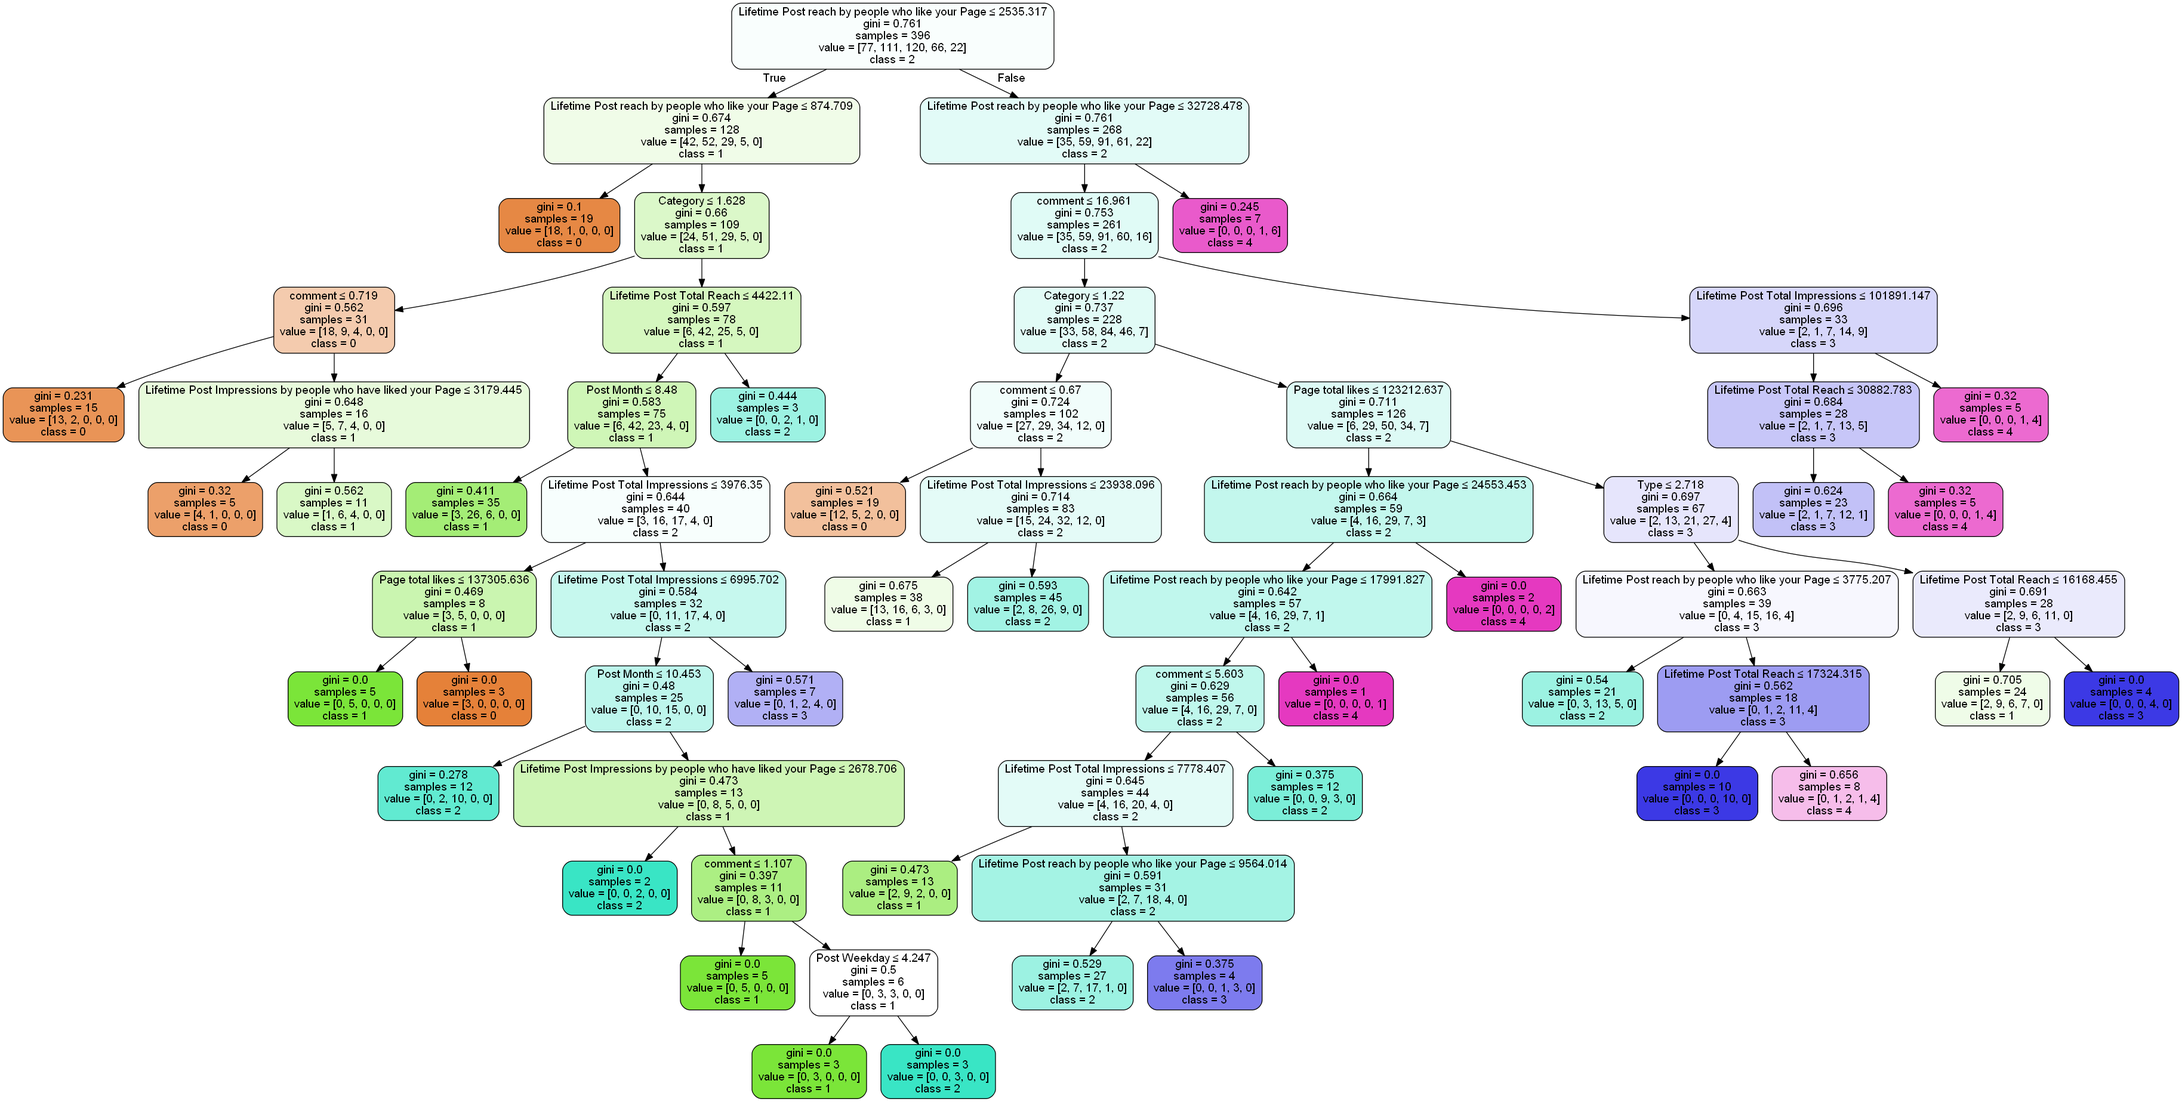
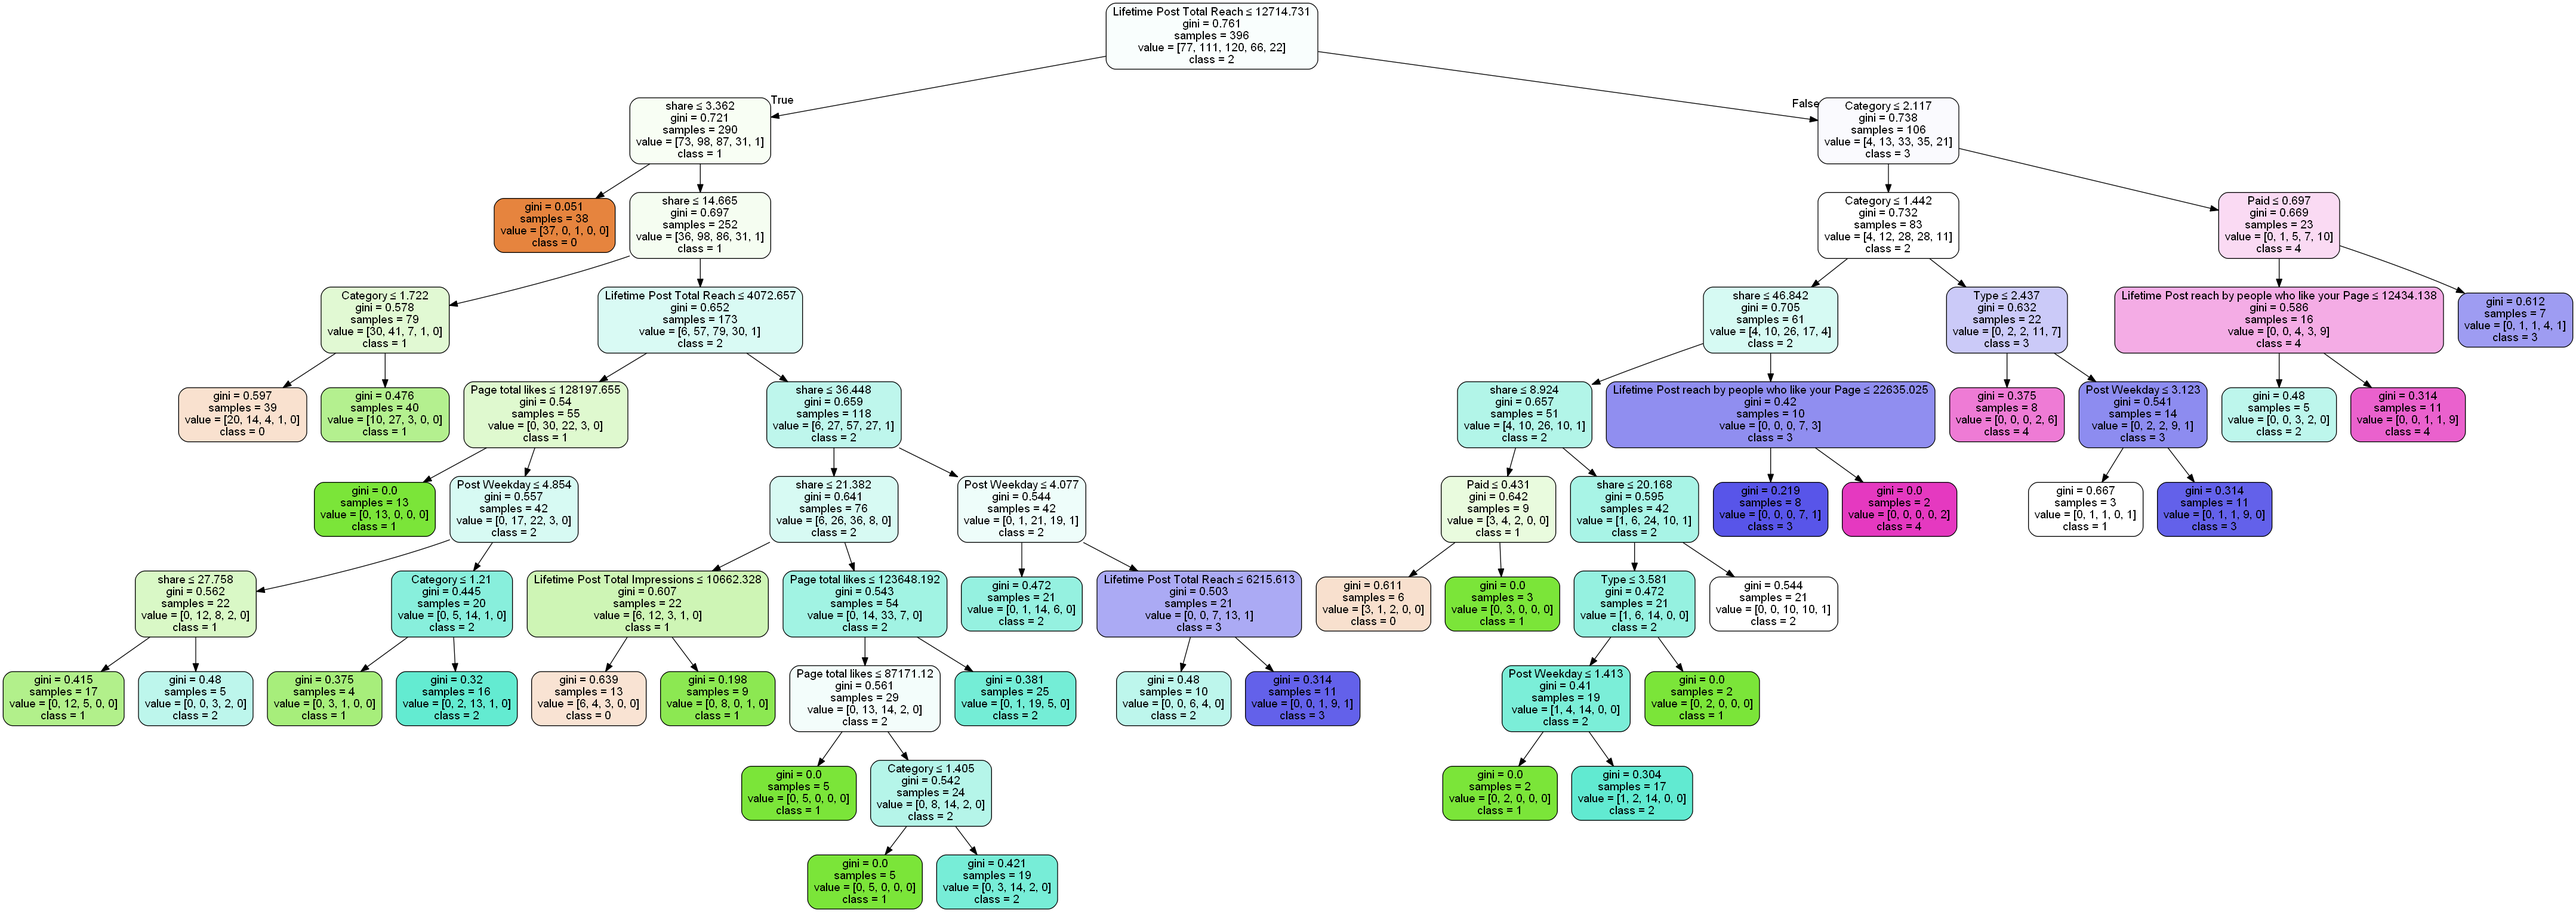
NN - fixed accuracy Pre and D_tree - fixed features Logistic - added cross validation and draw

diff --git a/logisticRegressionFB.py b/logisticRegressionFB.py
@@ -1,41 +1,137 @@
 from sklearn.linear_model import LogisticRegression
-import pandas
+from sklearn.ensemble import RandomForestClassifier
+import pandas as pd
 from sklearn.model_selection import train_test_split
-
-logreg = LogisticRegression()
-
-train_file = "data/processedDataAll.csv"
-# load dataset
-col_names = ['Page total likes', 'Type', 'Category', 'Post Month',
-             'Post Weekday', 'Post Hour', 'Paid', 'Lifetime Post Total Reach',
-             'Lifetime Post Total Impressions', 'Lifetime Post Impressions by people who have liked your Page',
-             'Lifetime Post reach by people who like your Page', 'comment', 'like']
-
-
-pima = pandas.read_csv(train_file, skiprows=1, header=None, delimiter=';', names=col_names)
-
-pima.head()
-
-# split dataset in features and target variable
-feature_cols = ['Page total likes', 'Type', 'Category', 'Post Month',
-                'Post Weekday', 'Post Hour', 'Paid', 'Lifetime Post Total Reach',
-                'Lifetime Post Total Impressions', 'Lifetime Post Impressions by people who have liked your Page',
-                'Lifetime Post reach by people who like your Page', 'comment']
-feature_col_y = ['like']
-X = pima[feature_cols]  # Features
-y = pima.like  # Target variable
-
-# Split dataset into training set and test set
-
-X_train, X_test, y_train, y_test = train_test_split(X, y, test_size=0.2,
-                                                    random_state=1)  # 70% training and 30% test
-
-logreg.fit(X_train,y_train)
-
-#
-y_pred=logreg.predict(X_test)
-
+import matplotlib.pyplot as plt
+import seaborn as sns
 from sklearn import metrics
-cnf_matrix = metrics.confusion_matrix(y_test, y_pred)
-cnf_matrix
-print("Accuracy:",metrics.accuracy_score(y_test, y_pred))
+from sklearn.pipeline import Pipeline
+from sklearn.model_selection import GridSearchCV
+
+
+import numpy as np
+
+def draw_class(y_test,y_pred):
+    cnf_matrix = metrics.confusion_matrix(y_test, y_pred)
+    cnf_matrix
+
+    class_names = [0, 1, 2, 3, 4]  # name  of classes
+    fig, ax = plt.subplots()
+    tick_marks = np.arange(len(class_names))
+    plt.xticks(tick_marks, class_names)
+    plt.yticks(tick_marks, class_names)
+    # create heatmap
+    sns.heatmap(pd.DataFrame(cnf_matrix), annot=True, cmap="YlGnBu", fmt='g')
+    ax.xaxis.set_label_position("top")
+    plt.tight_layout()
+    plt.title('Confusion matrix', y=1.1)
+    plt.ylabel('Actual label')
+    plt.xlabel('Predicted label')
+
+    plt.show()
+
+def check_hyper_parameters(data_features, data_tags):
+    penalty = [ 'l2', 'elasticnet', 'none']
+    c_value = [2, 1, 0.5, 0.1 , 0.001, 0.0001, 0.02 , 0.005, 0.0005]
+    solver = ['newton-cg', 'lbfgs', 'liblinear', 'sag', 'saga']
+    max_iter = [10000, 20000, 50000, 100000]
+
+    parms = []
+    train = []
+    valid = []
+    all_combinations = [[i, j, k, z] for i in penalty
+                 for j in c_value
+                 for k in solver
+                 for z in max_iter]
+
+    for penalty, c_value, solver, max_iter in all_combinations:
+        print(f"penately: {penalty}, C: {c_value}, solver: {solver}, max_iter: {max_iter}")
+        mean_train, mean_valid = cross_validation(data_features, data_tags, penalty, c_value, solver, max_iter)
+        parms.append([penalty, c_value, solver, max_iter])
+        train.append(mean_train)
+        valid.append(mean_valid)
+
+    best_index = valid.index(max(valid))
+    best_params = parms[best_index]
+    print(f"best in: penately={best_params[0]}, C={best_params[1]}, solver={best_params[2]},"
+          f"max_iter={best_params[3]} \n"
+          f" train accuracy={train[best_index]}, valid accuracy={valid[best_index]}")
+
+
+def cross_validation(data_features, data_tags,penalty,c_value, solver, max_iter):
+
+    train_acc_cross, valid_acc_cross = [], []
+
+    from sklearn.model_selection import StratifiedKFold
+
+    skf = StratifiedKFold(n_splits=5, shuffle=True, random_state=3)
+
+    data_features = np.array(data_features)
+    data_tags = np.array(data_tags)
+
+    for train_index, valid_index in skf.split(data_features, data_tags):
+        train_data = data_features[train_index]
+        train_tags = data_tags[train_index]
+
+        validation_data = data_features[valid_index]
+        validation_tags = data_tags[valid_index]
+
+        logreg = LogisticRegression(penalty=penalty,C=c_value,solver=solver, max_iter=max_iter)
+
+        # Train Logistic regression Tree Classifer
+        logreg = logreg.fit(train_data, train_tags)
+
+        # Predict the response for test dataset
+        validation_predictions = logreg.predict(validation_data)
+        train_predictions = logreg.predict(train_data)
+
+        train_acc_cross.append(metrics.accuracy_score(train_tags, train_predictions))
+        valid_acc_cross.append(metrics.accuracy_score(validation_tags, validation_predictions))
+
+
+    print(f"max train accuracy: {round((max(train_acc_cross)).item(), 3)},"
+          f" max validation accuracy: {round((max(valid_acc_cross)).item(), 3)}")
+    from statistics import mean
+    train_mean = round((mean(train_acc_cross)).item(),3)
+    valid_mean = round((mean(valid_acc_cross)).item(),3)
+    print(f"average train accuracy: {train_mean},"
+           f" average validation accuracy: {valid_mean}")
+    return train_mean, valid_mean
+
+
+def main():
+
+    train_file = "data/processedDataAll.csv"
+    # load dataset
+    col_names = ['Page total likes', 'Type', 'Category', 'Post Month',
+                 'Post Weekday', 'Post Hour', 'Paid', 'Lifetime Post Total Reach',
+                 'Lifetime Post Total Impressions', 'Lifetime Post Impressions by people who have liked your Page',
+                 'Lifetime Post reach by people who like your Page', 'share', 'like']
+
+    pima = pd.read_csv(train_file, skiprows=1, header=None, delimiter=';', names=col_names)
+
+    pima.head()
+
+    # split dataset in features and target variable
+    feature_cols = ['Page total likes', 'Type', 'Category', 'Post Month',
+                    'Post Weekday', 'Post Hour', 'Paid', 'Lifetime Post Total Reach',
+                    'Lifetime Post Total Impressions', 'Lifetime Post Impressions by people who have liked your Page',
+                    'Lifetime Post reach by people who like your Page', 'share']
+    feature_col_y = ['like']
+    X = pima[feature_cols]  # Features
+    y = pima.like  # Target variable
+
+    #check
+    check_hyper_parameters(X, y)
+
+  #  logreg = LogisticRegression(penalty='l2', dual=False, tol=0.0001, C=1.0, fit_intercept=True,
+  #                              intercept_scaling=1, class_weight=None, random_state=None, solver='liblinear',
+  #                              max_iter=10000, multi_class='ovr', verbose=0)
+    # Split dataset into training set and test set
+
+    print("hello")
+
+
+
+if __name__ == '__main__':
+    main()

diff --git a/DecisionTreeFB.py b/DecisionTreeFB.py
@@ -101,7 +101,7 @@ def main():
     col_names = ['Page total likes','Type','Category','Post Month',
                  'Post Weekday','Post Hour','Paid','Lifetime Post Total Reach',
                  'Lifetime Post Total Impressions','Lifetime Post Impressions by people who have liked your Page',
-                 'Lifetime Post reach by people who like your Page','comment','like']
+                 'Lifetime Post reach by people who like your Page','share','like']
     # load dataset
     pima = pd.read_csv(train_file,skiprows=1, header=None,delimiter=';', names=col_names)
 
@@ -111,7 +111,7 @@ def main():
     feature_cols = ['Page total likes','Type','Category','Post Month',
                  'Post Weekday','Post Hour','Paid','Lifetime Post Total Reach',
                  'Lifetime Post Total Impressions','Lifetime Post Impressions by people who have liked your Page',
-                 'Lifetime Post reach by people who like your Page','comment']
+                 'Lifetime Post reach by people who like your Page','share']
     feature_col_y = ['like']
     X = pima[feature_cols]  # Features
     y = pima.like  # Target variable

diff --git a/NeuralNetworkFB.py b/NeuralNetworkFB.py
@@ -135,11 +135,11 @@ def cross_validation(data, model, num_of_epochs=100, learning_rate=0.01,
 
         #draw_graph_accuracy(epochs, train_acc, valid_acc)
 
-    print(f"max train accuracy: {round((max(train_acc_cross)).item(),3)},"
-          f" max validation accuracy: {round((max(valid_acc_cross)).item(),3)}")
+    print(f"max train accuracy: {round((max(train_acc_cross)),3)},"
+          f" max validation accuracy: {round((max(valid_acc_cross)),3)}")
     from statistics import mean
-    train_mean = round((mean(train_acc_cross)).item(),3)
-    valid_mean = round((mean(valid_acc_cross)).item(),3)
+    train_mean = round((mean(train_acc_cross)),3)
+    valid_mean = round((mean(valid_acc_cross)),3)
     print(f"average train accuracy: {train_mean},"
           f" average validation accuracy: {valid_mean}")
     return train_mean, valid_mean

diff --git a/dataPreProcessing.py b/dataPreProcessing.py
@@ -97,7 +97,7 @@ def main():
     filename = 'data\dataset_Facebook.csv'
 
     #load text and ignore some coulmns
-    data = np.loadtxt(filename, dtype=str, delimiter=";", usecols=(0,1,2,3,4,5,6,7,8,12,13,15,16))
+    data = np.loadtxt(filename, dtype=str, delimiter=";", usecols=(0,1,2,3,4,5,6,7,8,12,13,17,16))
 
     data_after_precess, title_row = pre_process_data(data)
 
